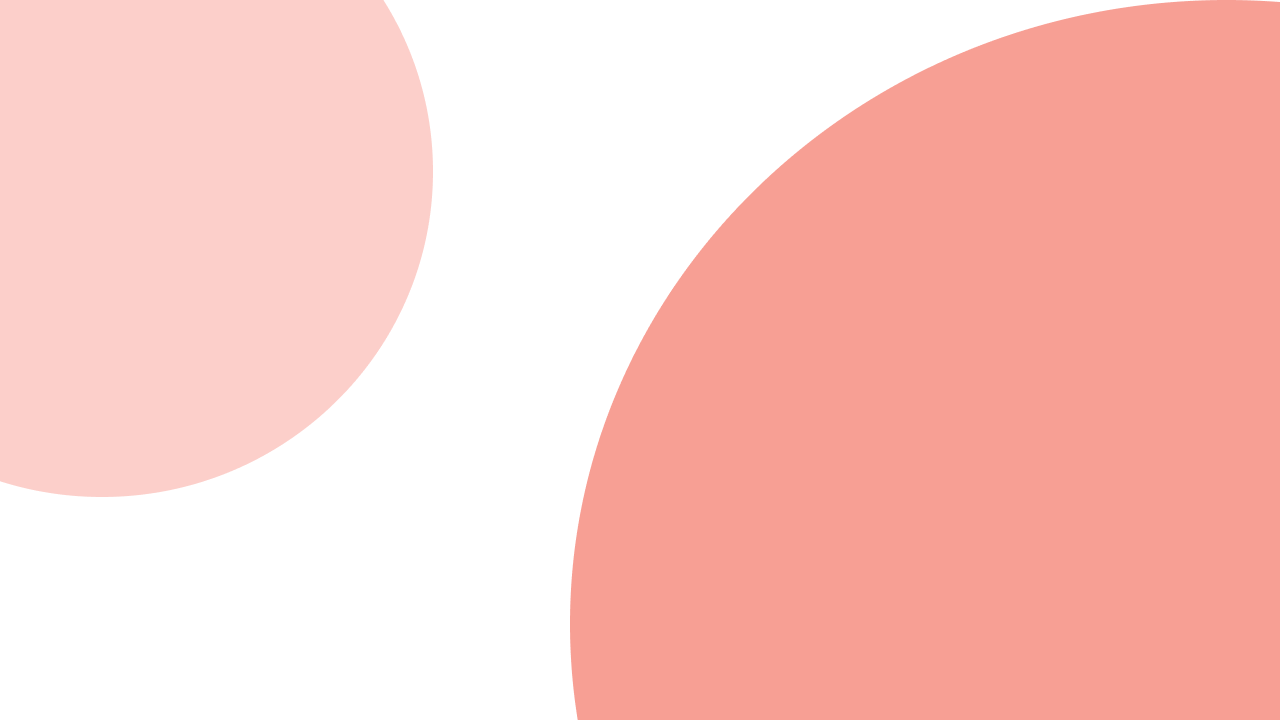
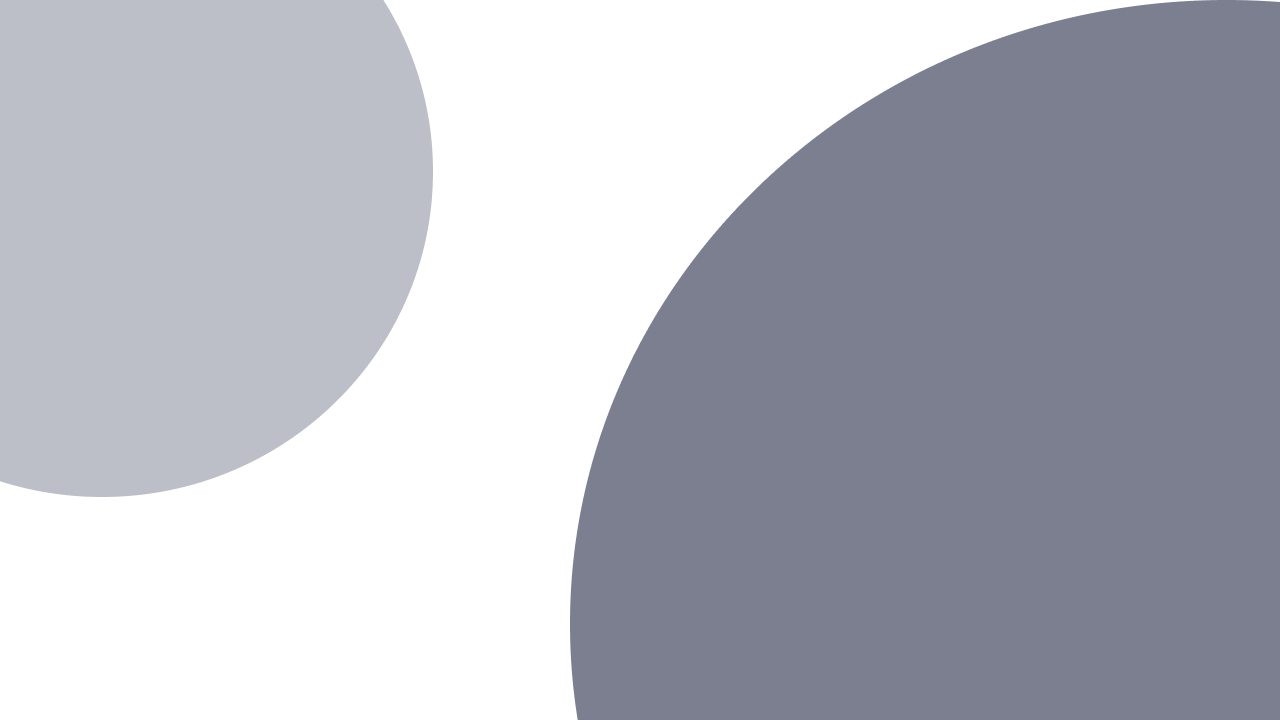
feat: ntah gatau lagi mau tulis apa

diff --git a/style.css b/style.css
@@ -144,8 +144,7 @@ table {
   --headline-dark: #fffffe;
   --headline-hover-dark: #a8a8a8;
   --highlight-dark: #ff8906;
-  --secondary-dark: #f25f4c;
-  --teritary-dark: #e53170;
+  --secondary-dark: #232946;
   --paragraph-dark: #eaeaea;
   --nav-scrolled-dark: #0f0e17e8;
 }
@@ -225,7 +224,7 @@ body {
 body.dark {
   transition: 1s ease-out;
 }
-h1{
+h1 {
   text-shadow: 0 2px 4px rgba(0, 0, 0, 0.2);
 }
 .mode {
@@ -715,6 +714,14 @@ body.dark #testi p.testi-text {
   box-shadow: 2px 2px 3px var(--btn-bg);
   overflow: hidden;
 }
+body.dark .card-testi {
+  width: 30rem;
+  min-height: 15rem;
+  background-color: var(--white);
+  box-sizing: border-box;
+  box-shadow: 2px 2px 3px var(--highlight-dark);
+  overflow: hidden;
+}
 .card-apotek {
   width: 30rem;
   height: 15rem;
@@ -738,6 +745,15 @@ body.dark .card-apotek {
   width: 50%;
   height: 100%;
   background-size: cover;
+  transition: 0.2s ease-in;
+}
+.card-apotek .image-apotek:hover {
+  background-color: salmon;
+  width: 50%;
+  height: 100%;
+  background-size: cover;
+  transform: scale(1.12);
+  transition: 0.5s ease-out;
 }
 .card-apotek .detail-apotek {
   width: 70%;

diff --git a/script.js b/script.js
@@ -93,7 +93,7 @@ mode.addEventListener("click", function () {
   document.body.classList.toggle("dark");
   if (document.body.classList.contains("dark")) {
     waveSatu.setAttribute("fill", "#0f0e17");
-    waveDua.setAttribute("fill", "#f25f4c");
+    waveDua.setAttribute("fill", "#232946");
     mode.innerHTML = "🌤";
     logos.forEach((logo) => (logo.src = "img/logo-dark.png"));
   } else {
